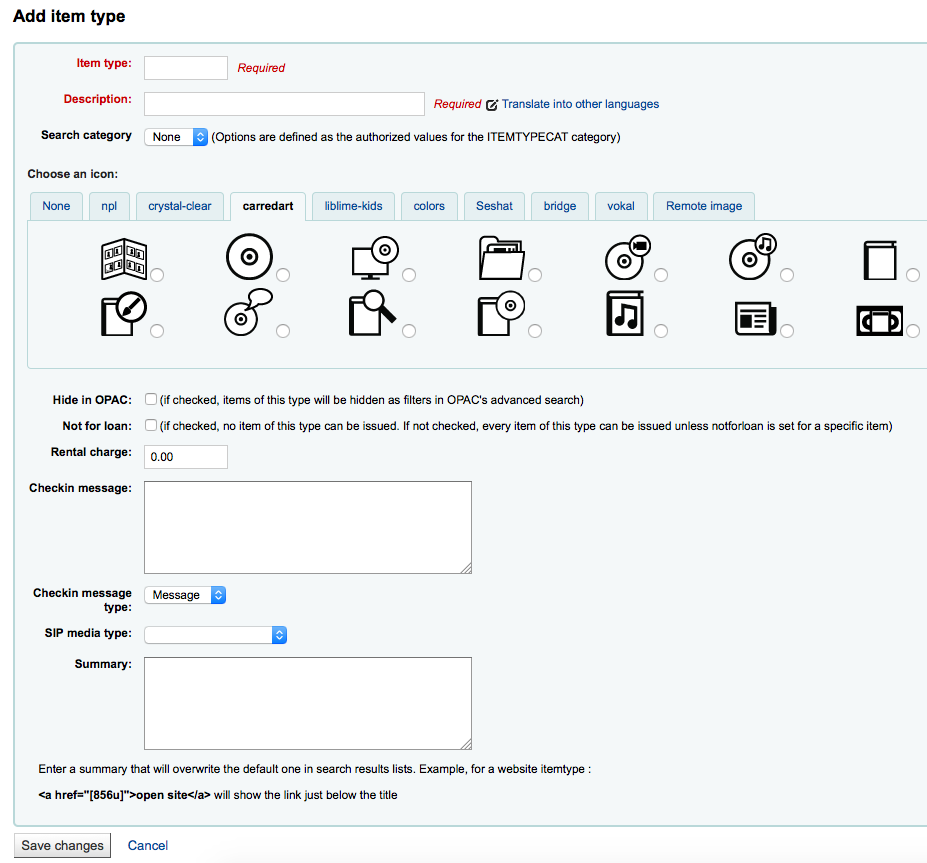
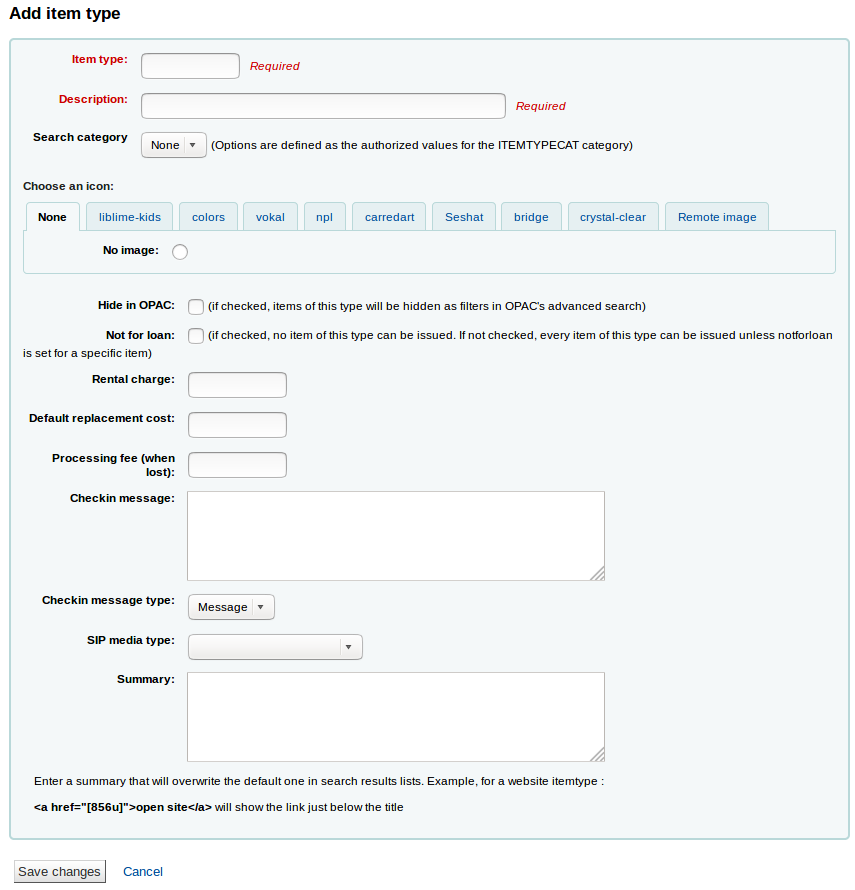
Edit Administration, sections Libraries, Library groups, and Item types

diff --git a/source/02_administration.rst b/source/02_administration.rst
@@ -13671,24 +13671,21 @@ Basic Parameters
 
     Configure all 'parameters' in the order they appear.
 
-.. _libraries-&-groups-label:
+.. _libraries-label:
 
-Libraries & Groups
+Libraries
 ~~~~~~~~~~~~~~~~~~~~~~~~~~~~~~~~~~~~
 
 When setting up your Koha system you will want to add information for
 every library that will be sharing your system. This data is used in
 several areas of Koha.
 
--  *Get there:* More > Administration > Basic Parameters > Libraries and
-   Groups
+-  *Get there:* More > Administration > Basic Parameters > Libraries
 
-When visiting this page you are presented with a list of the libraries
-and groups that have already been added to the system.
+When visiting this page you are presented with a list of the libraries that have already been added to the system.
 
 |image122|
 
-|image123|
 
 .. _adding-a-library-label:
 
@@ -13711,13 +13708,10 @@ To add a new library:
       displays to the public and should be a name that makes sense to
       your patrons.
 
-   -  If you have :ref:`groups <adding-a-group-label>` set up you can choose
-      what group this library belongs to after entering in the code and
-      name
-
 -  Next you can enter basic contact info about the branch
 
    |image125|
+   .. screenshot is missing the OPAC info box
 
    -  The address and contact fields can be used to make notices custom
       for each library
@@ -13767,6 +13761,8 @@ To add a new library:
              An IP address is required if you have enabled
              :ref:`AutoLocation`
 
+   -  If this library has a specific `MARC organization code <http://www.loc.gov/marc/organizations/orgshome.html>`_, you can enter it   here. If left blank, the code entered in the :ref:`MARCOrgCode` preference will be used for this library.
+
    -  Finally, if you have any notes you can put them here. These will
       not show in the OPAC
 
@@ -13791,55 +13787,64 @@ link to edit/alter details associated with the library in question.
 
     You will be unable to edit the 'Library code'
 
+Library groups
+~~~~~~~~~~~~~~~~~~~~~~~~~~~~~~~~~~~~
+
+Library groups are used in searches to limit the search to a group of libraries (for example in a neigbourhood).
+
+-  *Get there:* More > Administration > Basic Parameters > Library groups
+
+When visiting this page you are presented with a list of the groups that have already been added to the system.
+
+|image123|
+
 .. _adding-a-group-label:
 
 Adding a group
 ^^^^^^^^^^^^^^^^^^^^^^^^^^^^^^^^^^^^
 
-To add a Search Domain or Library Property Group click the 'New Group'
-button at the top of the screen
+Click the 'Add Group' button at the top of the screen
 
 |image129|
 
-Give the group a 'Category type; of 'searchdomain' and if you would like
-the group to show up in the library pull down at the top of the OPAC
-(with
-:ref:`OpacAddMastheadLibraryPulldown` set
-to 'Add') and on the advanced search page you can check the 'Show in
-search pulldown' box.
+- Give the group a title and a description. Only the title is mandatory as it will show up in the staff client and in the OPAC. The description is only used in this page to give an idea of what the group is used for.
 
-Of the fields on the group form, 'Category code', 'Name', and 'Category
-type' are the only required fields
+- You can limit staff from seeing other groups' patrons by checking the box next to the 'Limit patron data access by group' option.
 
-.. _search-domain-groups-label:
+- If you would like the group to show up in the library pulldown menu at the top of the OPAC (with :ref:`OpacAddMastheadLibraryPulldown` set to 'Add') and on the advanced search page you can check the 'Use for OPAC search groups' box.
 
-Search Domain Groups
-''''''''''''''''''''''''''''''''''''''''''''''
-
-Search Domain Groups allow you to search a group of libraries at the
-same time instead of searching just one library or all libraries.
-
-|image130|
-
-To see Search Domain Groups in action visit the staff client advanced
-search page in your Koha system:
+- If you want the group to appear in the library pulldown in the staff client advanced search, check the 'Use for staff search groups' box.
 
 |image131|
 
-.. _library-property-groups-label:
+.. _adding-a-library-to-a-group-label:
 
-Library Property Groups
-''''''''''''''''''''''''''''''''''''''''''''''''
+Adding a library to a group
+^^^^^^^^^^^^^^^^^^^^^^^^^^^^^^^^^^^^
 
-You can assign specific categories to your libraries by adding groups
-for them
-
-|image132|
-
-Properties are then applied to libraries via the add or edit library
-form
+Click on the 'Add library' button next to the group to add a library to this group. You will be presented with a list of the libraries that are not already in the group.
 
 |image133|
+
+.. _adding-a-sub-group-label:
+
+Adding a sub-group
+^^^^^^^^^^^^^^^^^^^^^^^^^^^^^^^^^^^^
+
+If your system is very large, you can create sub-groups. Click on the 'Actions' button next to the group and select the 'Add a sub-group' option. Fill in the title and the description (optional) of the sub-group. The features will be inherited from the parent group.
+
+|image1323|
+
+.. _deleting-a-group-label:
+
+Deleting a group
+^^^^^^^^^^^^^^^^^^^^^^^^^^^^^^^^^^^^
+
+To delete a group, click on the 'Actions' button next to the group and select the 'Delete' option.
+
+|image1324|
+
+|image1325|
 
 .. _item-types-label:
 
@@ -13866,7 +13871,7 @@ top of the Item Types page.
 
 |image135|
 
--  In the 'Item Type' field, enter a short code for your item type
+-  In the 'Item Type' field, enter a short code for your item type (maximum of 10 characters)
 
 -  The description is the plain text definition of the item type (for
    those with multiple languages installed you can translate the item
@@ -13903,14 +13908,28 @@ top of the Item Types page.
       be checked out to patrons
 
 -  For items that you charge a rental fee for, enter the total fee you
-   charge in the 'Rental charge' field
+   charge in the 'Rental charge' field. This will charge the patron on checkout.
 
    -  **Important**
 
           Do not enter symbols in this field, only numbers and decimal
           points (ex. $5.00 should be entered as 5 or 5.00)
 
-   -  This will charge the patron on checkout
+-  You can add a default replacement cost for this type of item. If left blank, the replacement price of the item itelf will be cherged to the user when the item is lost.
+
+    -  **Important**
+          Do not enter symbols in this field, only numbers and decimal
+          points (ex. $5.00 should be entered as 5 or 5.00)
+
+
+- You can also add a processing fee that will be added to the replacement cost.
+
+   -  **Important**
+
+          Do not enter symbols in this field, only numbers and decimal
+          points (ex. $5.00 should be entered as 5 or 5.00)
+
+
 
 -  If you would like a message or alert to appear when items of this
    type are checked in you can enter that in the 'Checkin message' box
@@ -13961,7 +13980,7 @@ click the 'Edit' link.
 Deleting Item Types
 ^^^^^^^^^^^^^^^^^^^^^^^^^^^^^^^^^^^^^^^^^
 
-Each item has a Delete button beside it. To delete an item, simply click
+Each item has a Delete button beside it. To delete an item type, simply click
 the 'Delete' link.
 
     **Important**

diff --git a/source/images.rst b/source/images.rst
@@ -1320,3 +1320,6 @@
 .. |image1320| image:: images/appendix-oclc/oclcexportbatch.png
 .. |image1321| image:: images/appendix-oclc/oclcprocessbatch.png
 .. |image1322| image:: images/opac/allowcheckoutnotes.png
+.. |image1323| image:: images/admin/basicparams/addsubgroup.png
+.. |image1324| image:: images/admin/basicparams/deletegroup.png
+.. |image1325| image:: images/admin/basicparams/deletegroupconfirm.png
